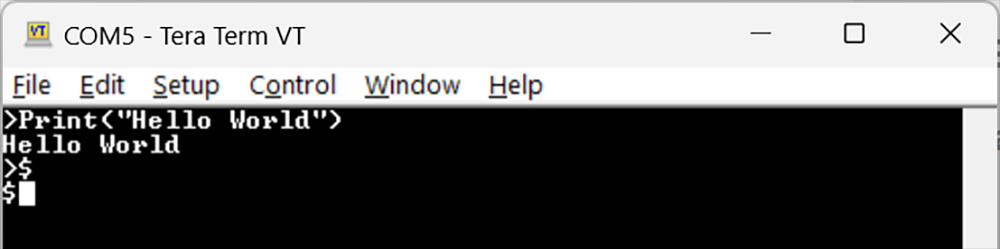
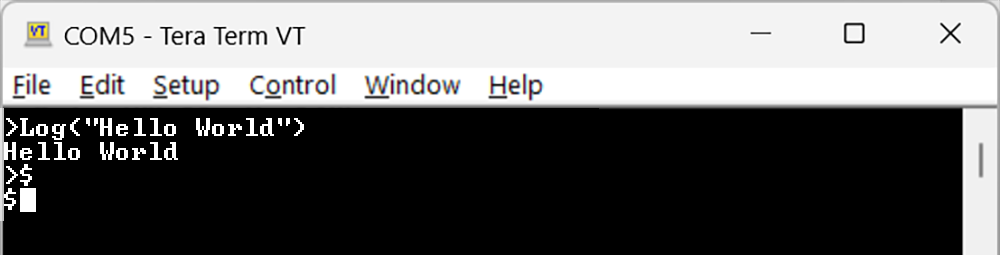
Update LCD Config and Print examples

diff --git a/software/due-script/due-script.md b/software/due-script/due-script.md
@@ -14,7 +14,7 @@ DUE Script has two modes *Immediate mode* and *Record mode*. *Immediate mode* co
 The `>` command is used to switch the system to immediate mode. This in turn will change the prompt to `>` as well. All statements are executed as soon as entered.
 
 ```basic 
-> Print("Hello World")
+> Log("Hello World")
 ```
 
 ![TeraTerm](../images/teraterm.png)
@@ -46,16 +46,16 @@ The following statements control the program recorded in flash, but can be used 
 
 ```basic 
 > $
-$ PrintLn (x)
-$ PrintLn (y)
+$ LogLn(x)
+$ LogLn(y)
 $ >
 > x=1:y=2
 > Run
 1
 2
 >List
-PrintLn(x)
-PrintLn(y)
+LogLn(x)
+LogLn(y)
 >new
 ```
 
@@ -68,22 +68,23 @@ DUE Scripts are not case sensitive. Its syntax is very simple and inspired by BA
 
 Users that require serious coding should be using the DUE Platform combined with one of the many available coding languages. Still, DUE Scripts can be used to extend those languages, as detailed below.
 
-### Print 
-`Print()` is a function that returns the value of its arguments. These arguments can be variables, strings, or equations. `Print()` is also unique because it can handle multiple arguments. 
+### Log & Print
+
+`Log()` is a function that sends its argument to the console or terminal window. These arguments can be variables, strings, or equations. `Log()` can handle multiple arguments.  
+
+`LogLn()` adds a line break to each log statement.
 
 ```basic
 x=100
-Print(x)
-Print("Hello World")
-Print(x+x)
-Print(x,"Hello World", x+x)
-```
-Result:
-```
-100Hello World200100Hello World 200
+Log(x)
+Log("Hello World")
+Log(x+x)
+Log(x,"Hello World", x+x)
 ```
 
-`PrintLn()` adds a line break to each print statement. 
+![Log](../images/log-output.png)
+
+`Print()` and `PrintLn()` are identical to `Log()` and `LogLn()` except the output goes to the screen instead of console output.
 
 ```basic
 x=100
@@ -92,13 +93,8 @@ PrintLn("Hello World")
 PrintLn(x+x)
 PrintLn(x,"Hello World", x+x)
 ```
-Result:
-```
-100
-Hello World
-200
-100Hello World200
-```
+
+![Log](../images/println-example.png)
 
 ### Comments
 The `#` character is used to identify a comment. Comments are ignored by the program, text added to help developers understand the code.
@@ -371,3 +367,6 @@ Print("Only when Go!")
 The program will not execute on power up due to the `Exit` command. But now calling `Go()` in immediate mode will produce "Only when Go!".
 
 Another good practice is to use the on-board LED as an activity LED to show that the device is running. Simply start your program by adding `Led(200,200,-1)`.
+
+
+

diff --git a/software/due-script/corelib/lcd.md b/software/due-script/corelib/lcd.md
@@ -25,8 +25,7 @@ Support for color displays includes ILI9342, ILI9341, and ST7735. These color di
 
 ## Display Configuration
 
-- **LcdConfig(output, config)** Pipes the graphics to a connected display. <br>
-**output:** `Print()` function output: 0 = serial console (default), 1 = LCD, 2 = LCD & serial console. <br>
+- **LcdConfig(config)** Pipes the graphics to a connected display. <br>
 **config:** external LCD configuration, 0 = default on-board display.
 
 For I2C displays, **config** is the I2C device's address of the connected SSD1306 display.
@@ -59,7 +58,7 @@ This example will set the system to use the color display adapter from Waveshare
 DWrite(1,1)#turn on the back-light
 DWrite(8,1)# release reset 
 
-LcdConfig(0, (0x82<<0)|(16<<8)|(12<<14)|(1<<22))
+LcdConfig ((0x82<<0)|(16<<8)|(12<<14)|(1<<22))
 LcdClear(0)
 LcdTextS("DUE has Color",0x00FF00,0,0,2,3)
 
@@ -82,7 +81,7 @@ Setting the address to `0` resets the configuration to the default BrainPad Puls
 This example will pipe (direct) graphics to an external 2.42" display with address 0x3C, wired to the 2.42" SSD1309 display showing in the image above. Tip: A resistor on the back of the display needs to be moved to change its bus from SPI to I2C.
 
 ```basic
-LcdConfig(0, 0x3C)
+LcdConfig(0x3C)
 LcdClear(0)
 LcdText("Hello World",1,10,10)
 LcdShow()
@@ -189,7 +188,6 @@ LcdShow()
 **x:** x position <br>
 **y:** x position <br>
 
-
 ```basic
 LcdClear(0)
 LcdText("Hello World",1,10,10)
@@ -230,7 +228,7 @@ LcdShow()
 
 ## Draw Image
 
-- **LcdImg(array,x, y, transform)**<br>
+- **LcdImg(array, x, y, transform)**<br>
 **array:** Image array (see below). <br>
 **x:** x position on screen. <br>
 **y:** y position on screen. <br>
@@ -267,7 +265,7 @@ Dim a[2+(8*8)] = [8,8,
 0, 1, 0, 1, 1, 0, 1, 0,
 1, 0, 1, 0, 0, 1, 0, 1]
 LcdClear(0)
-LcdImgS(a,60,30,2,2,0)
+LcdImg(a,60,30,0)
 LcdShow()
 ```
 
@@ -286,15 +284,15 @@ Transformation modifiers:
 
 ## Draw Scaled Image
 
-Works the same as LcdImg but adds scaling. 
+Works the same as `LcdImg()` but adds scaling. 
 
-- **LcdImgS(array,x, y, transform,scaleWidth,scaleHeight)**<br>
+- **LcdImgS(array, x, y, scaleWidth, scaleHeight, transform)**<br>
 **array:** Image array (see below). <br>
 **x:** x position on screen. <br>
 **y:** y position on screen. <br>
-**transform:** transform modifier. (see above)<br>
 **scaleWidth:** Width scale multiplier <br>
-**scaleHeight:** Height scale multiplier 
+**scaleHeight:** Height scale multiplier <br>
+**transform:** transform modifier. (see above)
 
 ## LCD Stream
 

diff --git a/software/coding-options/javascript.md b/software/coding-options/javascript.md
@@ -86,9 +86,7 @@ The provided API mirrors DUE Script's [**Core library**](../due-script/corelib/c
 | I2c.Write()				   |[I2cStream()](../due-script/corelib/i2c.md)				| I2C write, using stream
 | I2c.Read()				   |[I2cStream()](../due-script/corelib/i2c.md)				| I2C read, using stream
 | I2c.WriteRead()			   |[I2cStream()](../due-script/corelib/i2c.md)				| I2C write/read, using stream
-| Infrared.Enable()			   |[IrEnable()](../due-script/corelib/infrared.md)			| Enables pin for IR signal capture
-| Infrared.Read()			   |[IrRead()](../due-script/corelib/infrared.md)			| Reads value from IR enabled pin
-| Led.Set()	   	         	   |[LED()](../due-script/corelib/led.md)					| Controls the on-board LED
+| Infrared.Enable()			   |[IrEnable()](../due-script/c led.md)					| Controls the on-board LED
 | Neo.Clear()	   	           |[NeoClear()](../due-script/corelib/neopixel.md)			| Clears all LED's in memory
 | Neo.SetColor()	           |[NeoSet()](../due-script/corelib/neopixel.md)			| Set's a specific LED to a color
 | Neo.Show()	   	           |[NeoShow()](../due-script/corelib/neopixel.md)			| Transfers the internal pattern to LEDs
@@ -104,7 +102,10 @@ The provided API mirrors DUE Script's [**Core library**](../due-script/corelib/c
 | System.Beep()	   	           |[Beep()](../due-script/corelib/beep.md)					| Uses any pin to generate a tone
 | System.GetTickMicroseconds() |[TickUs()](../due-script/corelib/systemfunctions.md)	| Returns system time in microseconds
 | System.GetTickMilliseconds() |[TickMs()](../due-script/corelib/systemfunctions.md)	| Returns system time in milliseconds
+| System.Print()	           |[Print()](../due-script/corelib/systemfunctions.md)		| Print to LCD display and Debug Output on the same line
+| System.PrintLn()	           |[PrintLn()](../due-script/corelib/systemfunctions.md)	| Print to LCD display then moves to next line
 | System.Reset()	           |[Reset()](../due-script/corelib/systemfunctions.md)		| Resets the board
+| System.Wait()	               |[Wait()](../due-script/corelib/systemfunctions.md)		| Pause the system in milliseconds
 | Touch.Read()	               |[TouchRead()](../due-script/corelib/touch.md)           | Initialize a pin for touch
 | Uart.BytesToRead()	       |[UartCount()](../due-script/corelib/uart.md)			| How many bytes buffered and ready to read
 | Uart.Enable()	               |[UartInit()](../due-script/corelib/uart.md)				| Initialize UART

diff --git a/software/coding-options/dotnet.md b/software/coding-options/dotnet.md
@@ -74,7 +74,7 @@ The provided API mirrors DUE Script's [Core library](../due-script/corelib/corel
 | Display.SetPixel()           |[LcdPixel()](../due-script/corelib/lcd.md)				| Draws pixel on the display
 | Display.Show()               |[LcdShow()](../due-script/corelib/lcd.md)				| Sends the display buffer
 | Distance.Read()              |[Distance()](../due-script/corelib/distance.md)			| Used to read distance sensors
-| Frequency.Write()                  |[Freq()](../due-script/corelib/frequency.md)			| Hardware generated PWM signal
+| Frequency.Write()            |[Freq()](../due-script/corelib/frequency.md)			| Hardware generated PWM signal
 | I2c.Write()				   |[I2cStream()](../due-script/corelib/i2c.md)				| I2C write, using stream
 | I2c.Read()				   |[I2cStream()](../due-script/corelib/i2c.md)				| I2C read, using stream
 | I2c.WriteRead()			   |[I2cStream()](../due-script/corelib/i2c.md)				| I2C write/read, using stream
@@ -96,8 +96,8 @@ The provided API mirrors DUE Script's [Core library](../due-script/corelib/corel
 | System.Beep()	   	           |[Beep()](../due-script/corelib/beep.md)					| Uses any pin to generate a tone
 | System.GetTickMicroseconds() |[TickUs()](../due-script/corelib/systemfunctions.md)	| Returns system time in microseconds
 | System.GetTickMilliseconds() |[TickMs()](../due-script/corelib/systemfunctions.md)	| Returns system time in milliseconds
-| System.Print()	           |[Print()](../due-script/corelib/systemfunctions.md)		| Print to the console same line
-| System.PrintLn()	           |[PrintLn()](../due-script/corelib/systemfunctions.md)		| Print to the console then moves to next line
+| System.Print()	           |[Print()](../due-script/corelib/systemfunctions.md)		| Print to LCD display and Debug Output on the same line
+| System.PrintLn()	           |[PrintLn()](../due-script/corelib/systemfunctions.md)	| Print to LCD display and Debug Output then moves to next line
 | System.Reset()	           |[Reset()](../due-script/corelib/systemfunctions.md)		| Resets the board
 | System.Wait()	               |[Wait()](../due-script/corelib/systemfunctions.md)		| Pause the system in milliseconds
 | Touch.Read()	               |[TouchRead()](../due-script/corelib/touch.md)           | Initialize a pin for touch

diff --git a/software/coding-options/python.md b/software/coding-options/python.md
@@ -98,8 +98,8 @@ The provided API mirrors DUE Script's [**Core library**](../due-script/corelib/c
 | System.Beep()	   	           |[Beep()](../due-script/corelib/beep.md)					| Uses any pin to generate a tone
 | System.GetTickMicroseconds() |[TickUs()](../due-script/corelib/systemfunctions.md)	| Returns system time in microseconds
 | System.GetTickMilliseconds() |[TickMs()](../due-script/corelib/systemfunctions.md)	| Returns system time in milliseconds
-| System.Print()	           |[Print()](../due-script/corelib/systemfunctions.md)		| Print to the console same line
-| System.PrintLn()	           |[PrintLn()](../due-script/corelib/systemfunctions.md)		| Print to the console then moves to next line
+| System.Print()	           |[Print()](../due-script/corelib/systemfunctions.md)		| Print to LCD display and Debug Output on the same line
+| System.PrintLn()	           |[PrintLn()](../due-script/corelib/systemfunctions.md)	| Print to LCD display and Debug Output then moves to next line
 | System.Reset()	           |[Reset()](../due-script/corelib/systemfunctions.md)		| Resets the board
 | System.Wait()	               |[Wait()](../due-script/corelib/systemfunctions.md)		| Pause the system in milliseconds
 | Touch.Read()	               |[TouchRead()](../due-script/corelib/touch.md)           | Initialize a pin for touch
